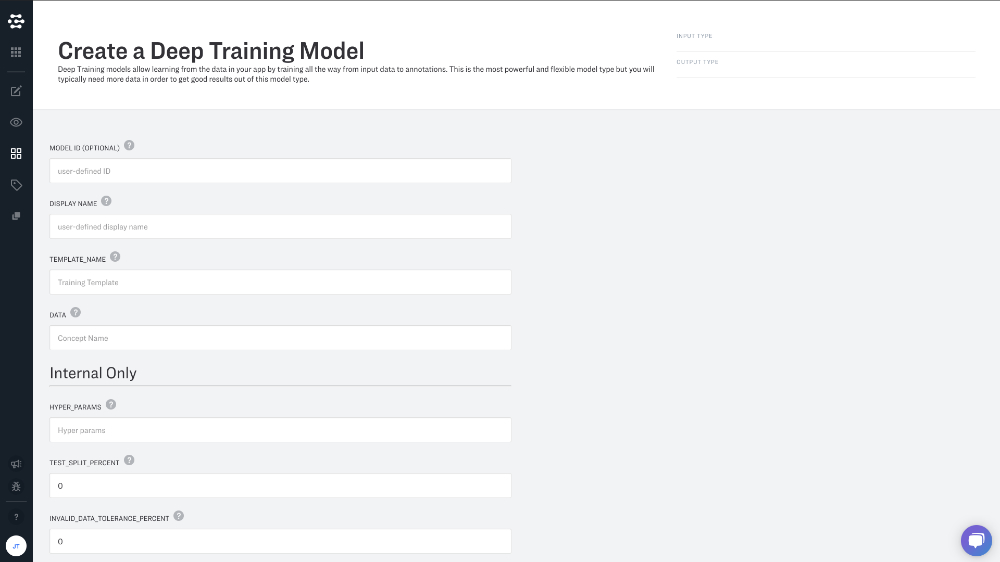
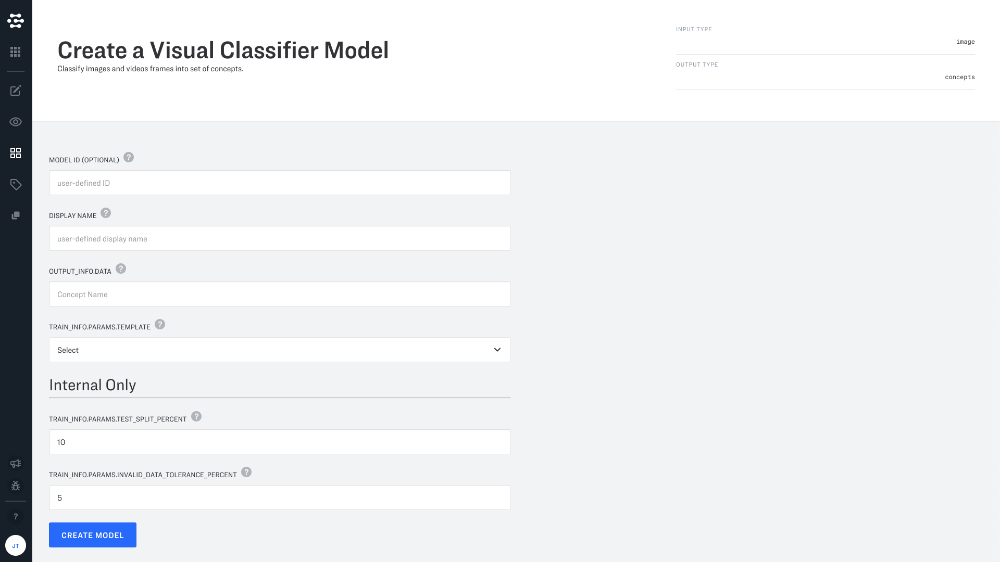
edits for deep training and KG

diff --git a/api-guide/concept/knowledge_graph.md b/api-guide/concept/knowledge_graph.md
@@ -1,12 +1,13 @@
-The Clarifai Knowledge Graph enables you to establish a hierarchical relationship between your concepts and to map your custom concepts to a common set of concepts understood by all Clarifai Models. The knowledge graph makes it possible to link data across multiple custom and pre-built models in a meaningful way.
+The Clarifai Knowledge Graph lets you map your custom concepts to a common set of concepts understood by all applications on the Clarifai platform. The knowledge graph makes it possible to link data across multiple custom and pre-built models in a meaningful way.
 
-The knowledge graph uses three different *predicates* to organize your concepts: hypernyms, hyponyms, and synonyms.
+The Knowledge Graph uses Clarifai's concept mapping model to establish a hierarchical relationship between your concepts. and to uses three different *predicates* to organize your concepts: hypernyms, hyponyms, and synonyms.
 
 **Hyponym** represents an 'is a kind of' relation. The following relationship: 'honey' (subject), 'hyponym' (predicate), 'food' (object) is more easily be read as 'honey' 'is a kind of' 'food'.
 
 **Hypernym** is the opposite of 'hyponym'. When you add one of the relationships the opposite will automatically appear for you in queries. The 'hypernym' can be read as 'is a parent of' so: 'food' (subject), 'hypernym' (predicate), 'honey' (object)can more easily be read as:'food' is a parent of 'honey'.
 
 **Synonym** The 'synonym' relation defines two concepts that essential mean the same thing. This is more like a "is" relationship. So for example a 'synonym' relationship could be: "puppy" is "pup" The reverse is also true once the former is added so: "pup" is "puppy" will appear in queries as well.
+
 
 
 ## Create

diff --git a/portal-guide/model/deep-training.md b/portal-guide/model/deep-training.md
@@ -93,10 +93,10 @@ Click the blue `Create Custom Model` button at the top righthand corner of the s
 
 #### Configure your Model
 
-* **Model ID** An optional user-created id for your model. If not specified then a generated hash string will be used.
-* **Display Name** Name your model.
-* **Template Name** Your pre-configured model template. You can choose from any of the templates mentioned on this page. Depending on your data you might want to try a few templates to see which yields optimal results.
-* **Data** The list of concepts you want this model to predict from. You can use any existing concepts in your app.
+* **MODEL ID (OPTIONAL)** An optional user-created id for your model. If not specified then a generated hash string will be used.
+* **DISPLAY NAME** Name your model.
+* **OUTPUT_INFO.DATA** The list of concepts you want this model to predict from. You can use any existing concepts in your app.
+* **TRAIN_INFO.PARAMS.TEMPLATE** Your pre-configured model template. You can choose from any of the templates mentioned on this page. Depending on your data you might want to try a few templates to see which yields optimal results.
 * **Hyperparams** Any hyperparameters that you want to pass through to backend training service.
 * **Test Split Percent** The percentage of the app to use as validation set for evaluations. Defaults to 10%.
 * **Invalid Data Tolerance Percent** Percentage value of tolerance level to invalid inputs among all training inputs. Training will be stopped with error thrown if actual percent of invalid inputs is higher than this.

diff --git a/api-guide/model/deep-training.md b/api-guide/model/deep-training.md
@@ -64,7 +64,9 @@ Deep training gives you the power to tune the hyperparameters that affect “how
 
 ## Create
 
-### Create Deep Model (Classification)
+### Create Visual Classifier
+
+Use a visual classifier model if you would like to classify images and videos frames into set of concepts.
 
 {% tabs %}
 {% tab title="gRPC Java" %}
@@ -116,7 +118,9 @@ curl --location --request POST '{{base_url}}/v2/models' \
 {% endtabs %}
 
 
-### Create Deep Model (Detection)
+### Create Visual Detector  
+
+Create a visual detector to detect bounding box regions in images or video frames and then  classify the objects detected.
 
 {% tabs %}
 {% tab title="gRPC Java" %}
@@ -167,8 +171,9 @@ curl --location --request POST '{{base_url}}/v2/models' \
 {% endtab %}
 {% endtabs %}
 
-### Create Deep Model (Embed)
+### Create Visual Embedder
 
+Create a visual embedding model to transform images and videos frames into "high level" vector representation understood by our AI models. These embeddings enable visual search and can be used as base models to train other models.
 
 {% tabs %}
 {% tab title="gRPC Java" %}
@@ -238,6 +243,8 @@ curl --location --request GET '{{base_url}}/v2/users/{{user_id}}/apps/{{app_id}}
 ## Update
 
 ### Patch base workflow
+
+You can use your deep trained embeddings as the base workflow in your application. 
 
 {% tabs %}
 {% tab title="gRPC Java" %}

diff --git a/portal-guide/concept/knowledge_graph.md b/portal-guide/concept/knowledge_graph.md
@@ -1,6 +1,6 @@
-The Clarifai Knowledge Graph enables you to establish a hierarchical relationship between your concepts and to map your custom concepts to a common set of concepts understood by all Clarifai Models. The knowledge graph makes it possible to link data across multiple custom and pre-built models in a meaningful way.
+The Clarifai Knowledge Graph lets you map your custom concepts to a common set of concepts understood by all applications on the Clarifai platform. The knowledge graph makes it possible to link data across multiple custom and pre-built models in a meaningful way.
 
-The knowledge graph uses three different *predicates* to organize your concepts: hypernyms, hyponyms, and synonyms.
+The Knowledge Graph uses Clarifai's concept mapping model to establish a hierarchical relationship between your concepts. and to uses three different *predicates* to organize your concepts: hypernyms, hyponyms, and synonyms.
 
 **Hyponym** represents an 'is a kind of' relation. The following relationship: 'honey' (subject), 'hyponym' (predicate), 'food' (object) is more easily be read as 'honey' 'is a kind of' 'food'.
 
